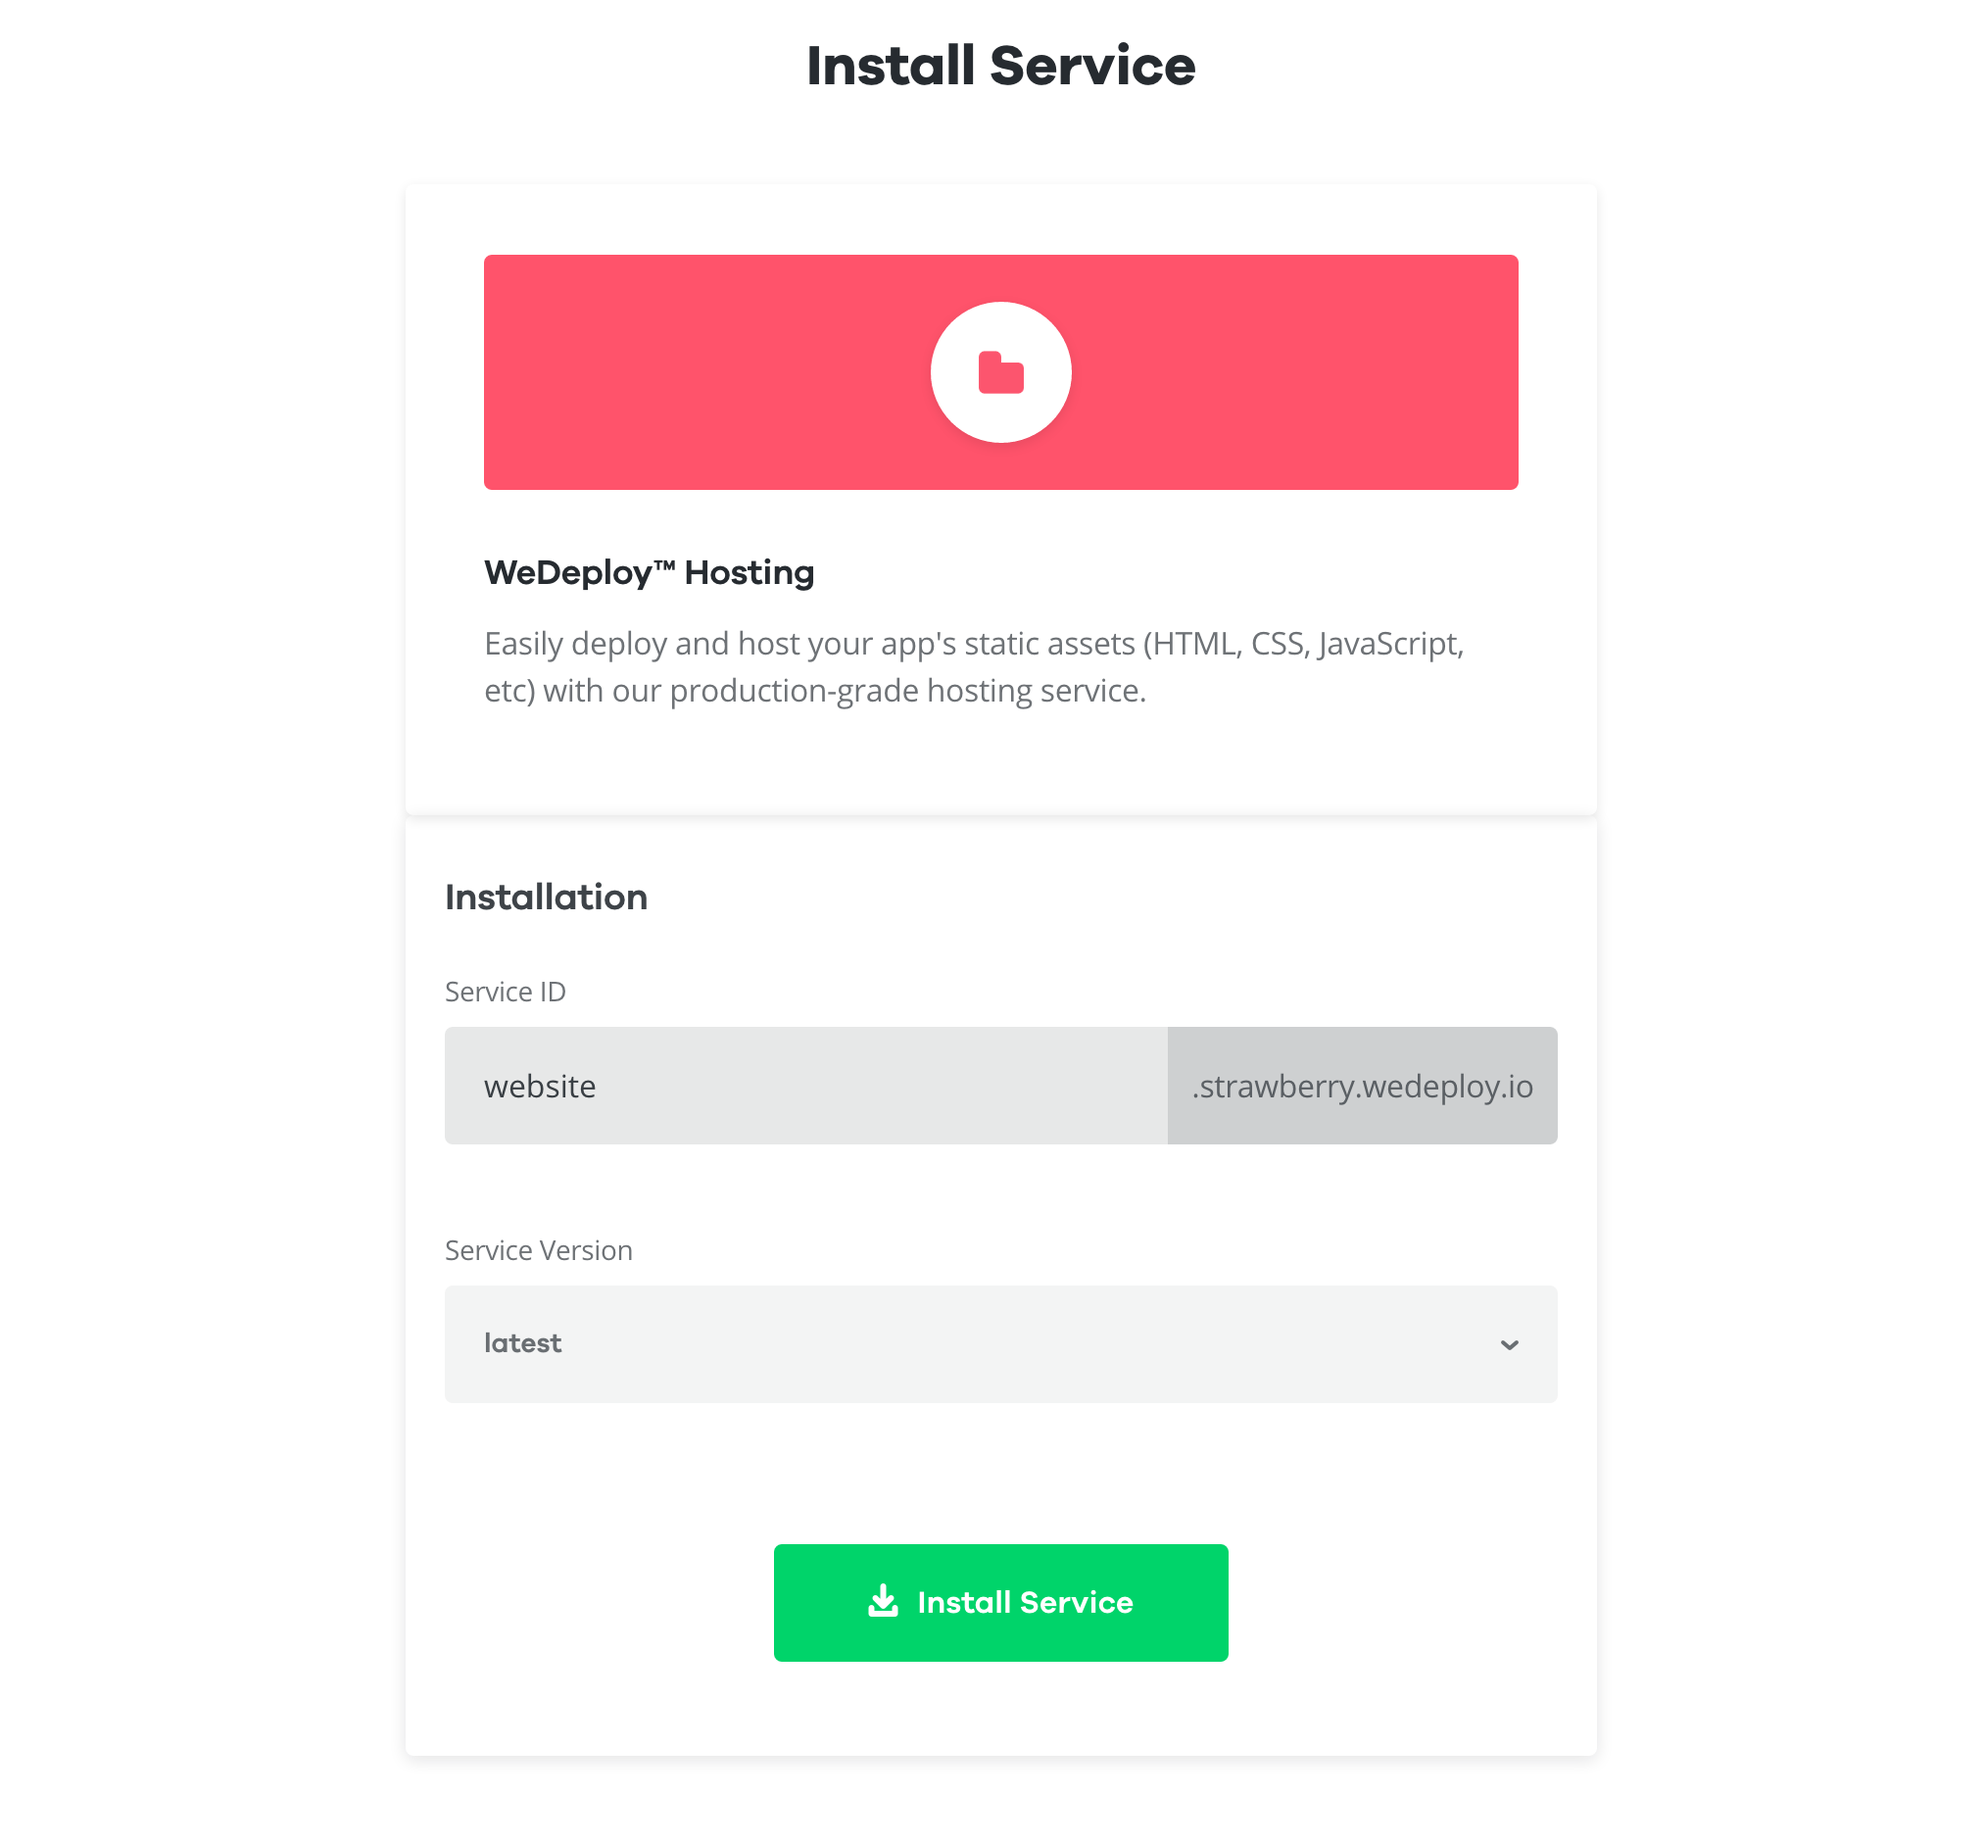
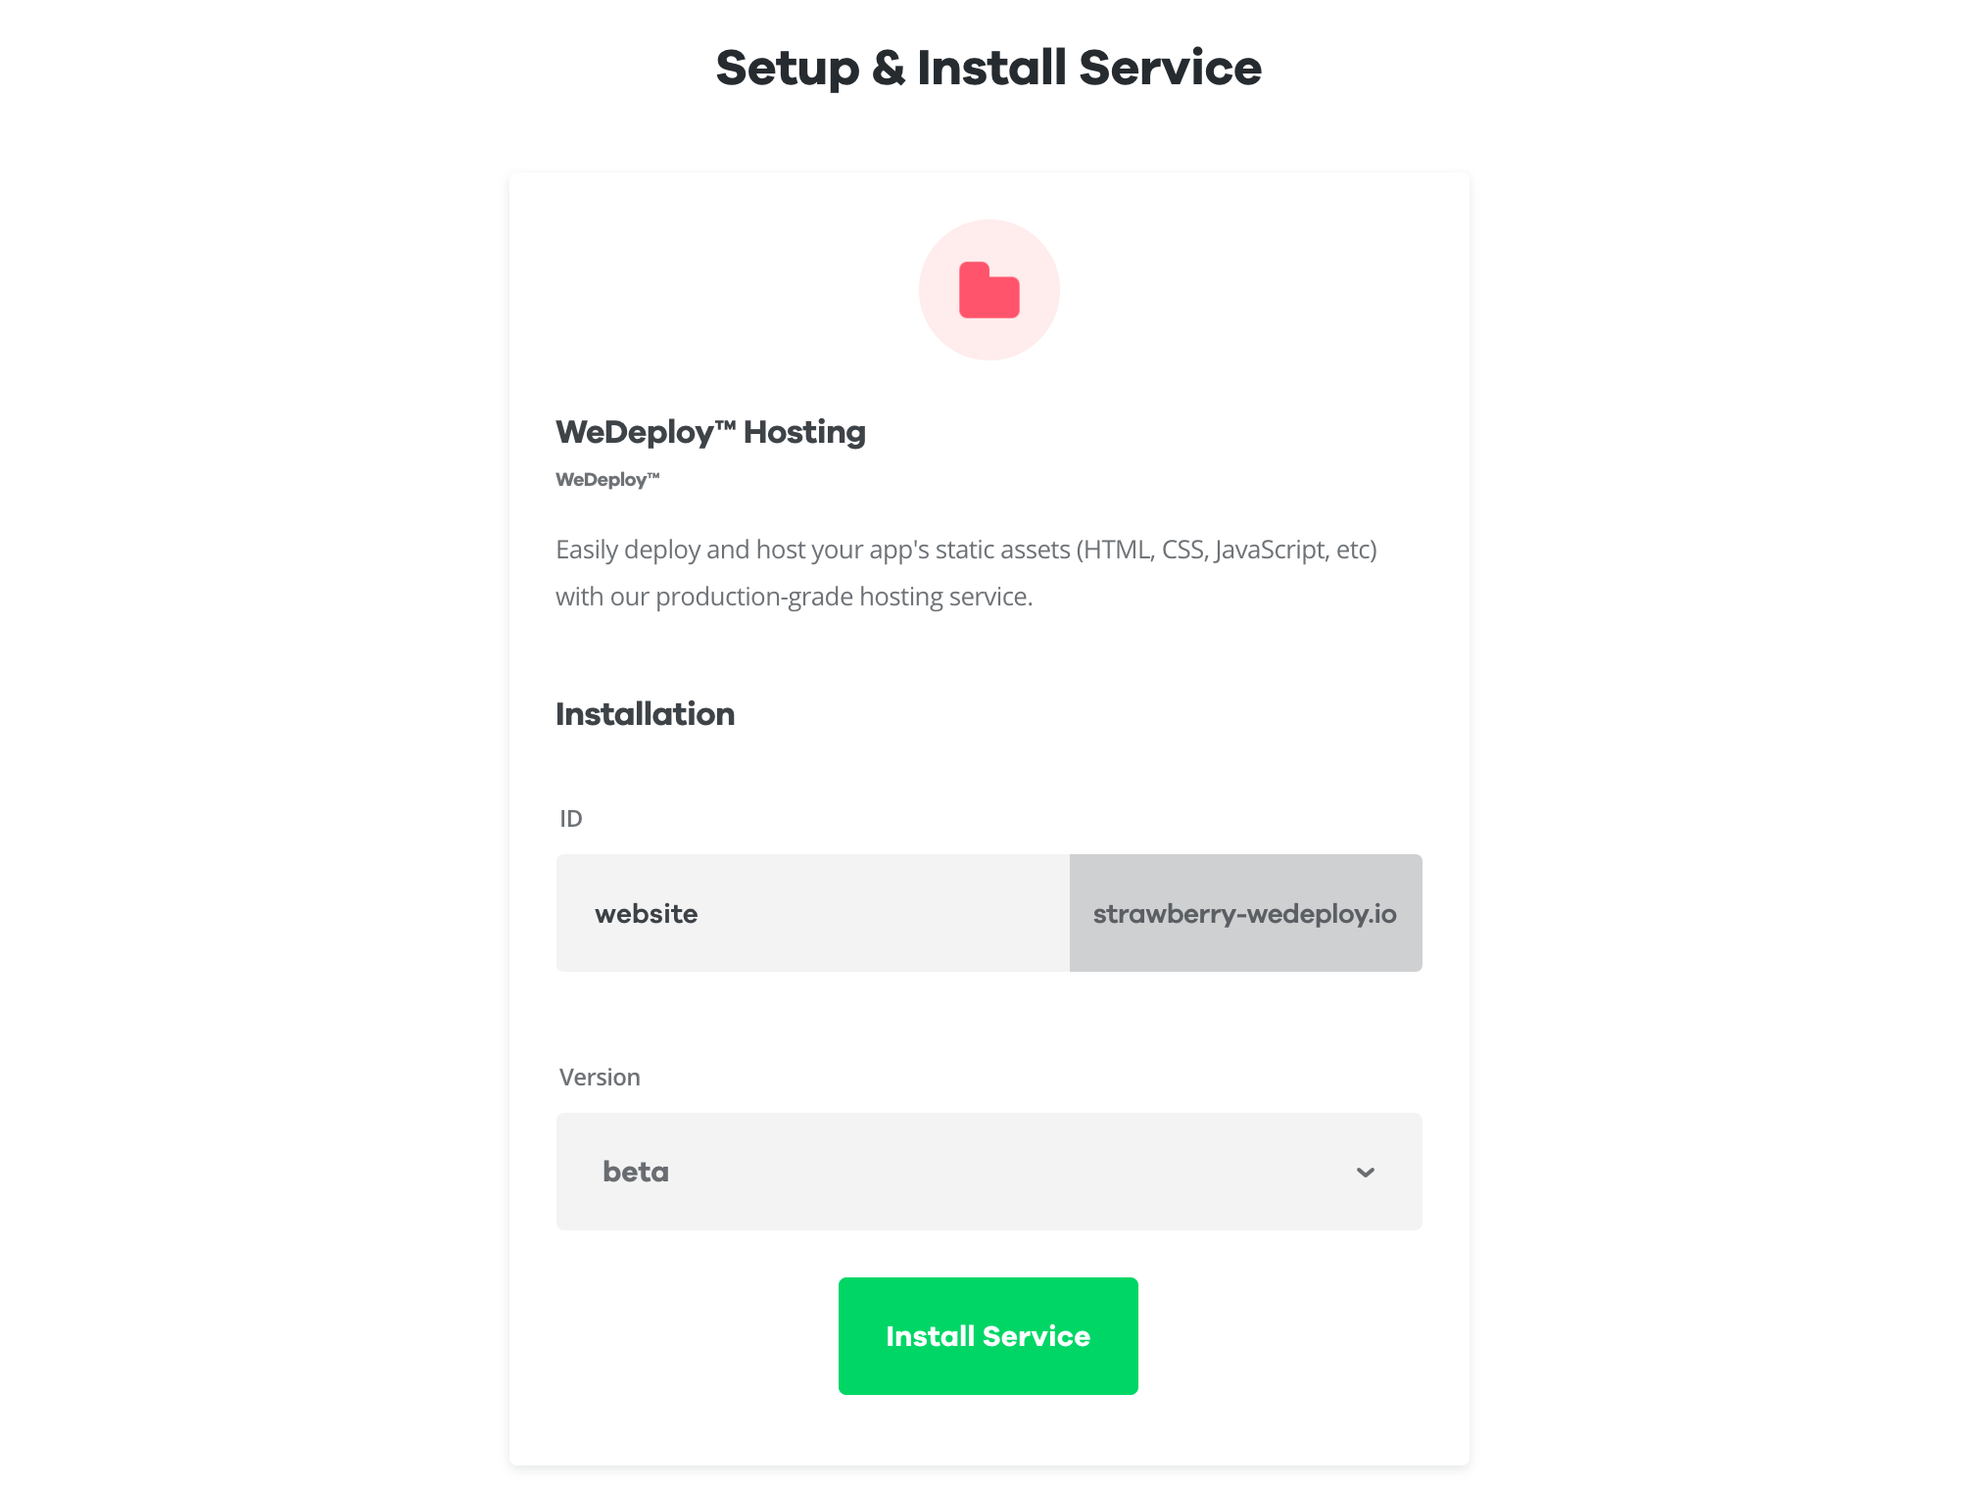
new images of console

diff --git a/ui/src/pages/docs/intro/using-the-console.md b/ui/src/pages/docs/intro/using-the-console.md
@@ -54,13 +54,13 @@ You must choose the type of service you want to install.
 
 ![Select a Container Type](/images/docs/intro/using-the-dashboard--select-a-container-type.png)
 
-##### Choose an ID for your service
+##### Choose an ID
 
 Similar to project ID's, service ID's are permanent and cannot be changed later. When you have chosen an ID, click _"Install Service"_.
 
 ![Install Container Form](/images/docs/intro/using-the-dashboard--install-container-form.png)
 
-##### Deploy Service
+##### Install service
 
 Now WeDeploy will start building and deploying your service automatically.
 
@@ -70,7 +70,7 @@ Now WeDeploy will start building and deploying your service automatically.
 
 <article id="4">
 
-## View your project live
+## View your service live
 
 Once your service is installed, we give you a specific URL for that service that is made up with the service and project ID's (_website-strawberry.wedeploy.io_). You can always find this URL by clicking on the service in the overview section.
 
